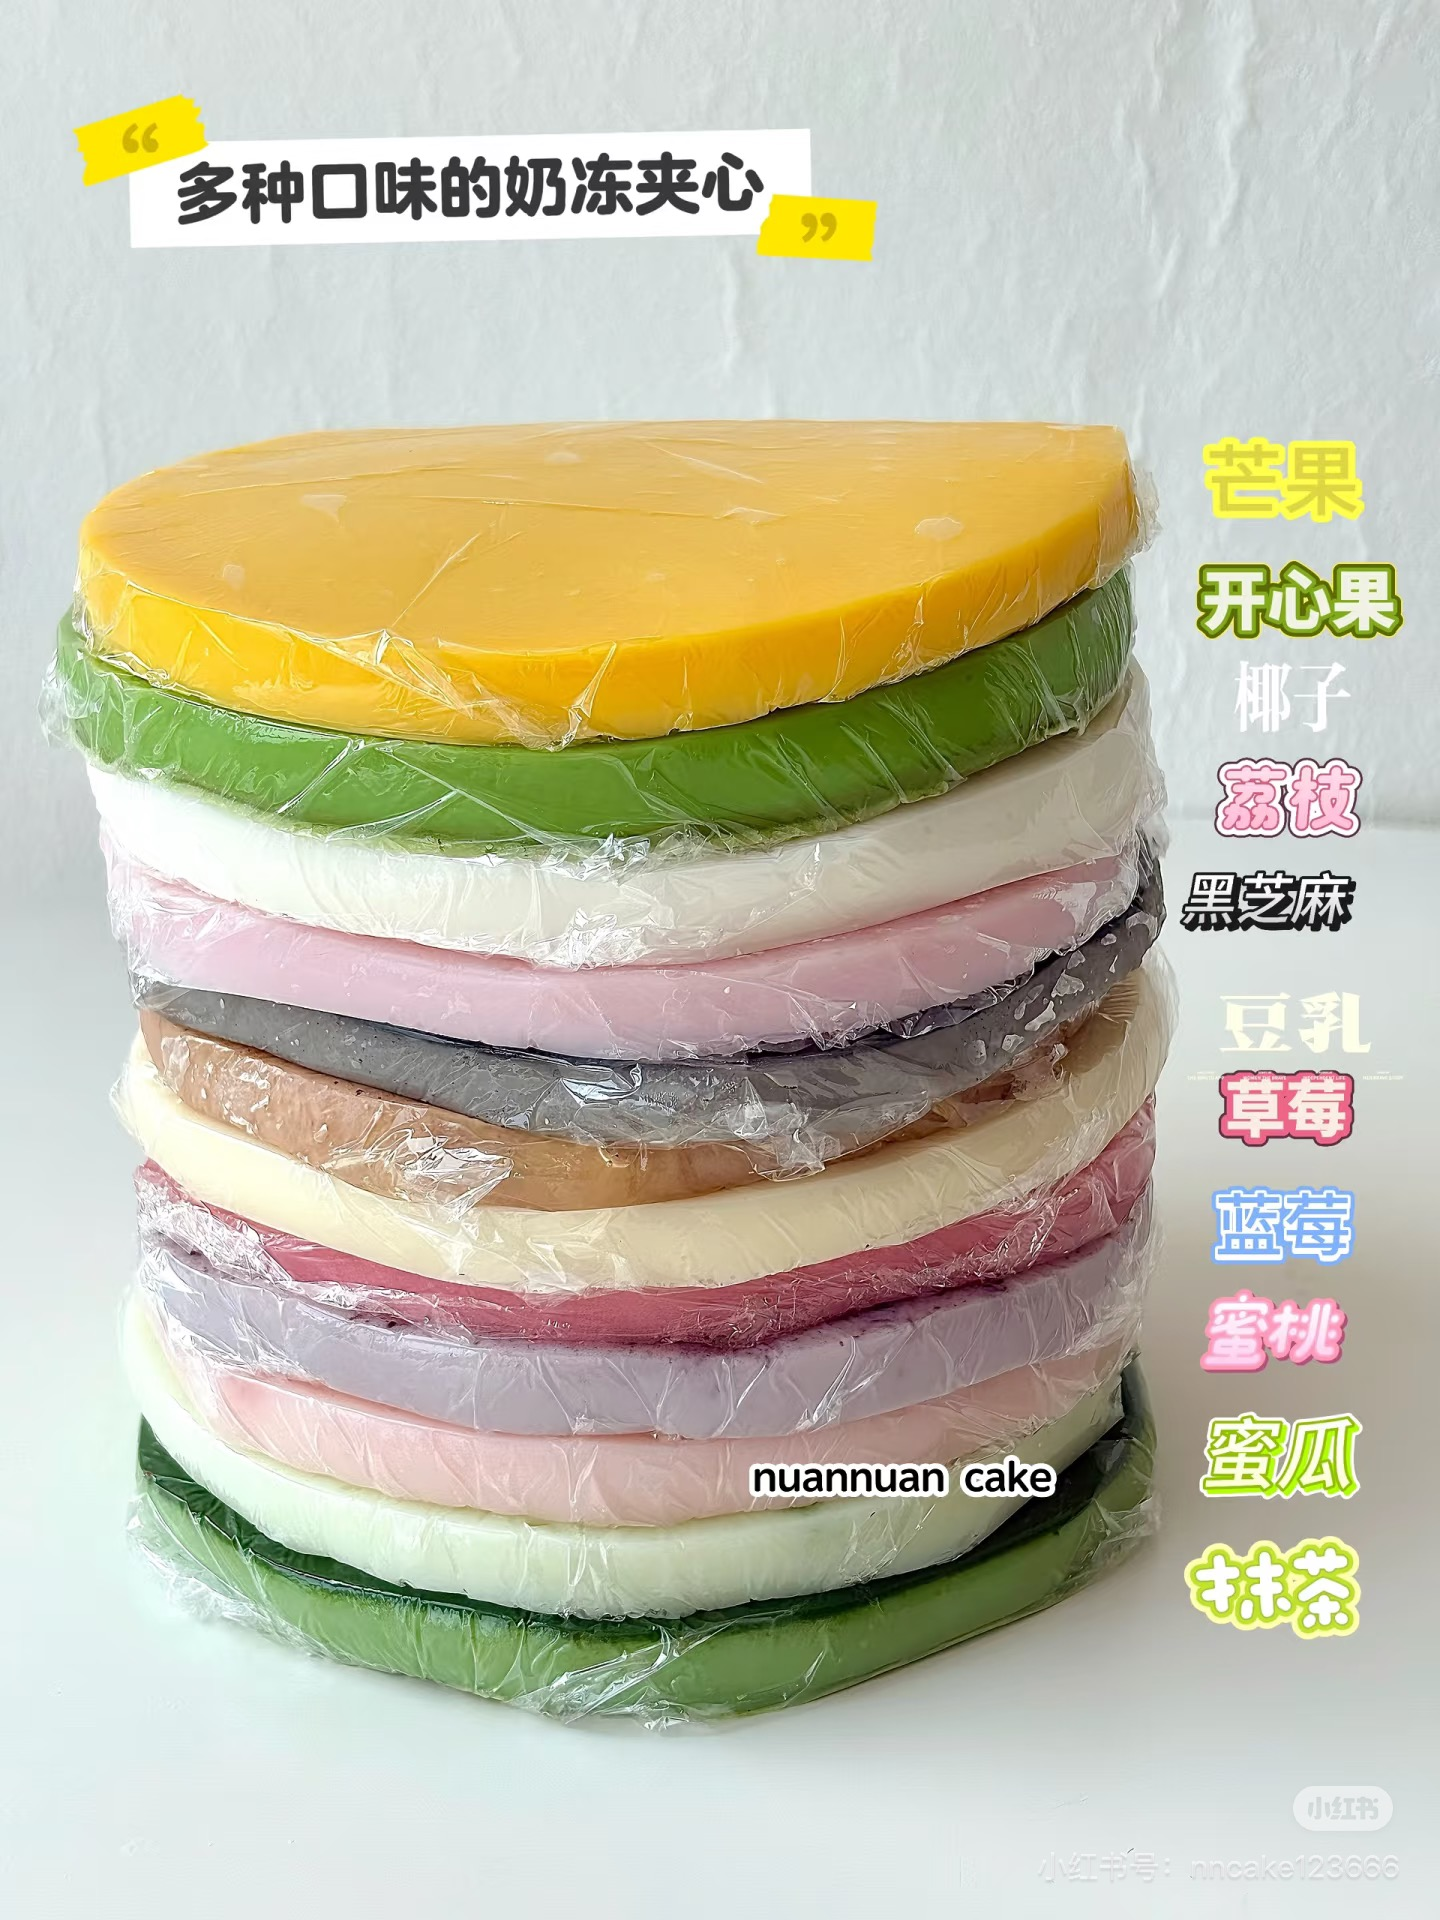
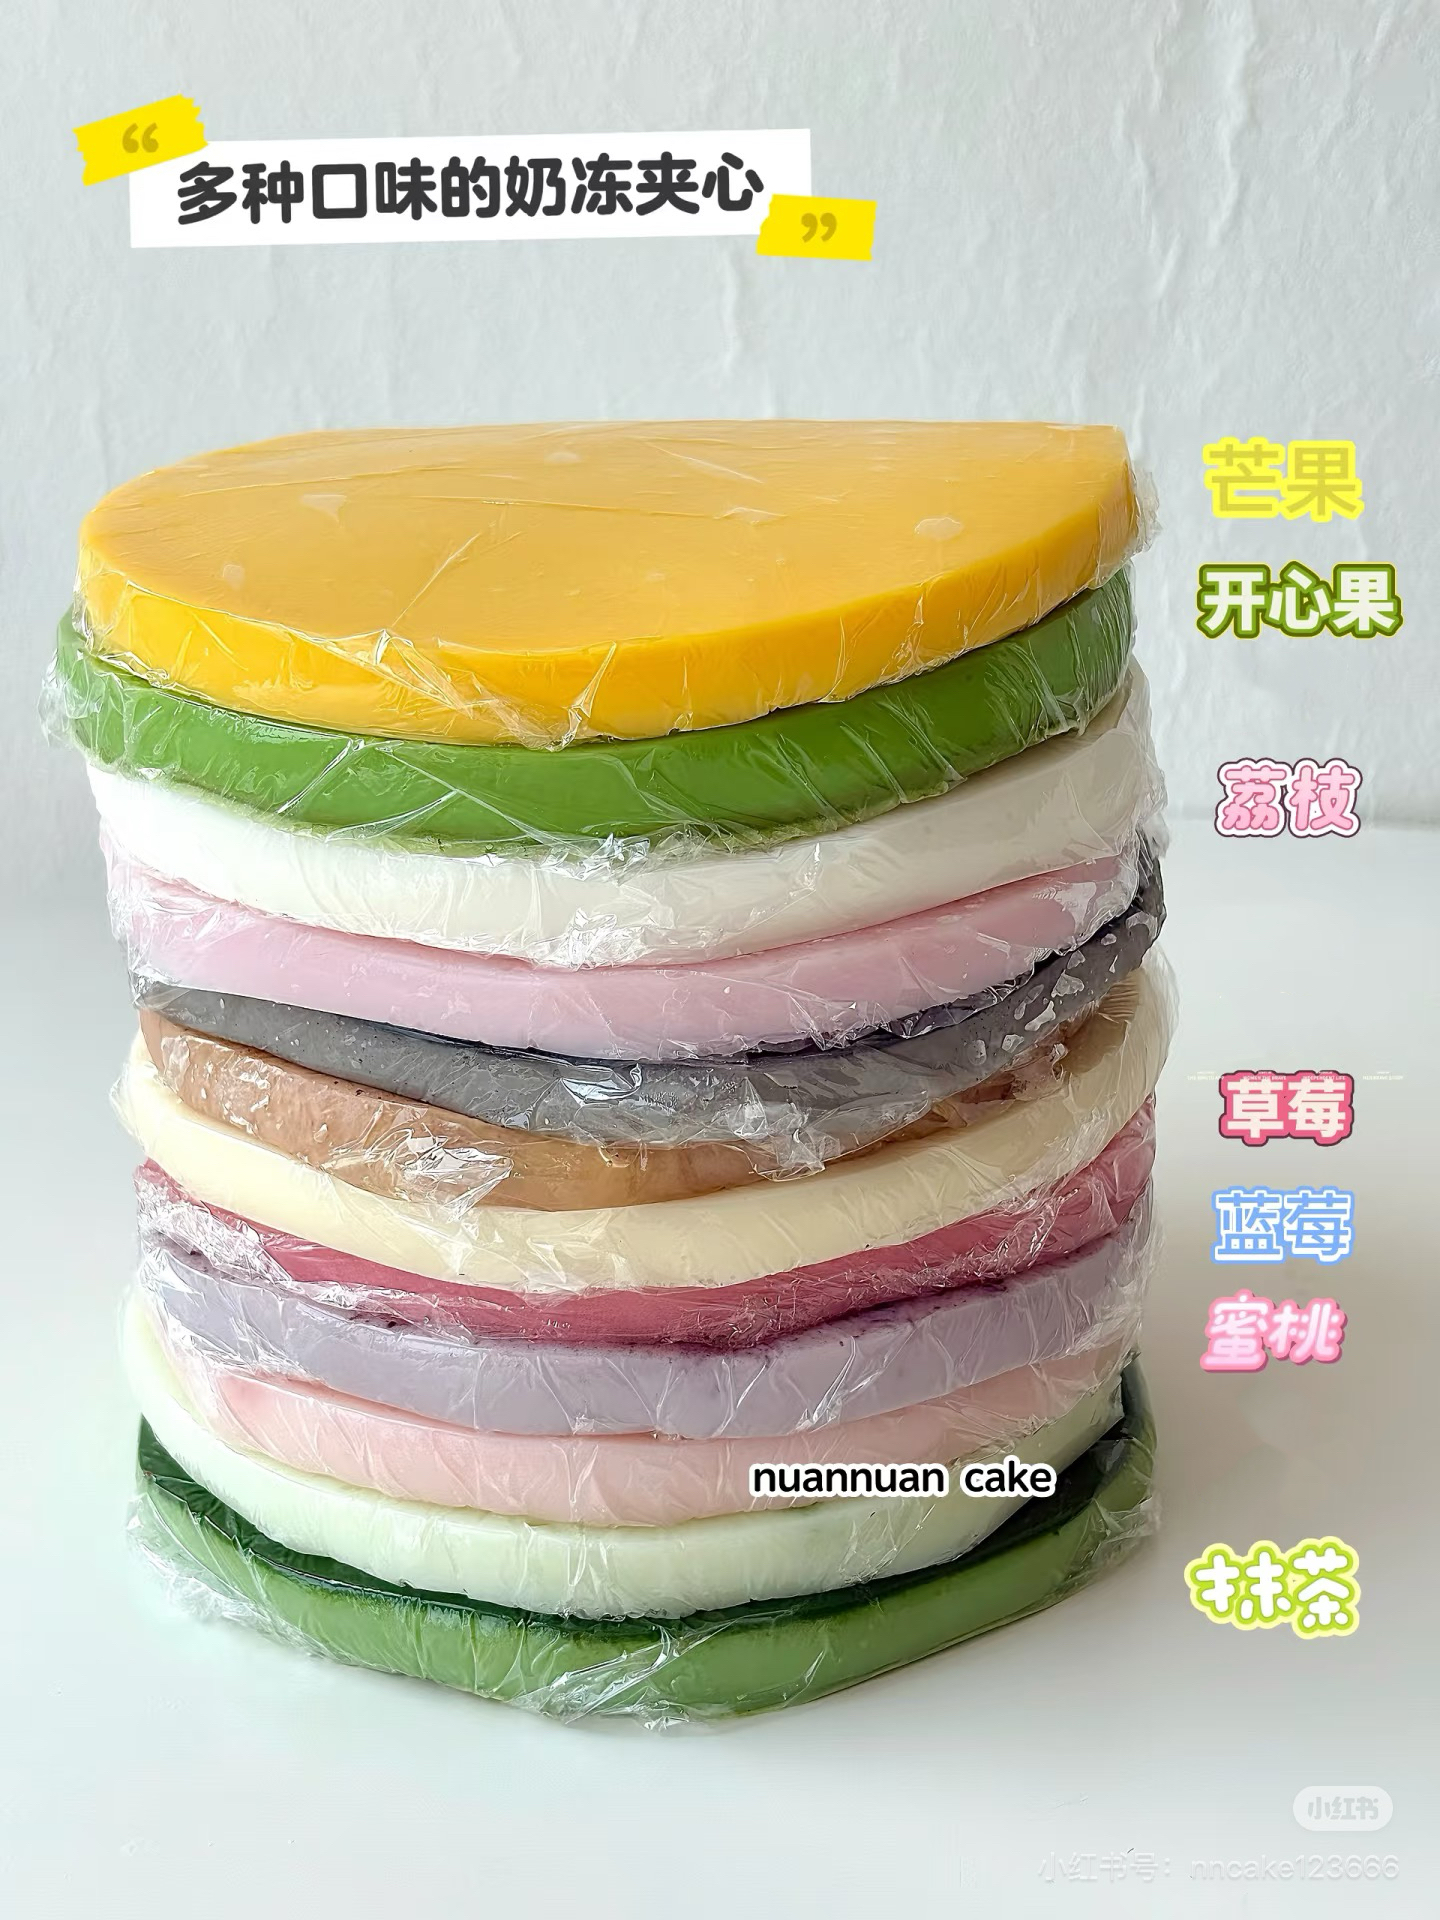
update: 加高备注改为一层蛋糕胚

Changed region(s): [[0.8125, 0.4375, 0.9688, 0.5625], [0.8125, 0.7188, 0.9688, 0.7812], [0.8438, 0.3438, 0.9375, 0.375]]

diff --git a/src/data.ts b/src/data.ts
@@ -531,7 +531,7 @@ export const cakes: Cake[] = [
     id: 905,
     categoryId: 9,
     name: '加高',
-    description: '蛋糕加高',
+    description: '一层蛋糕胚',
     price6: 0, price8: 0,
     singlePrice: 5,
     image: '/jiajiagao.JPG',
